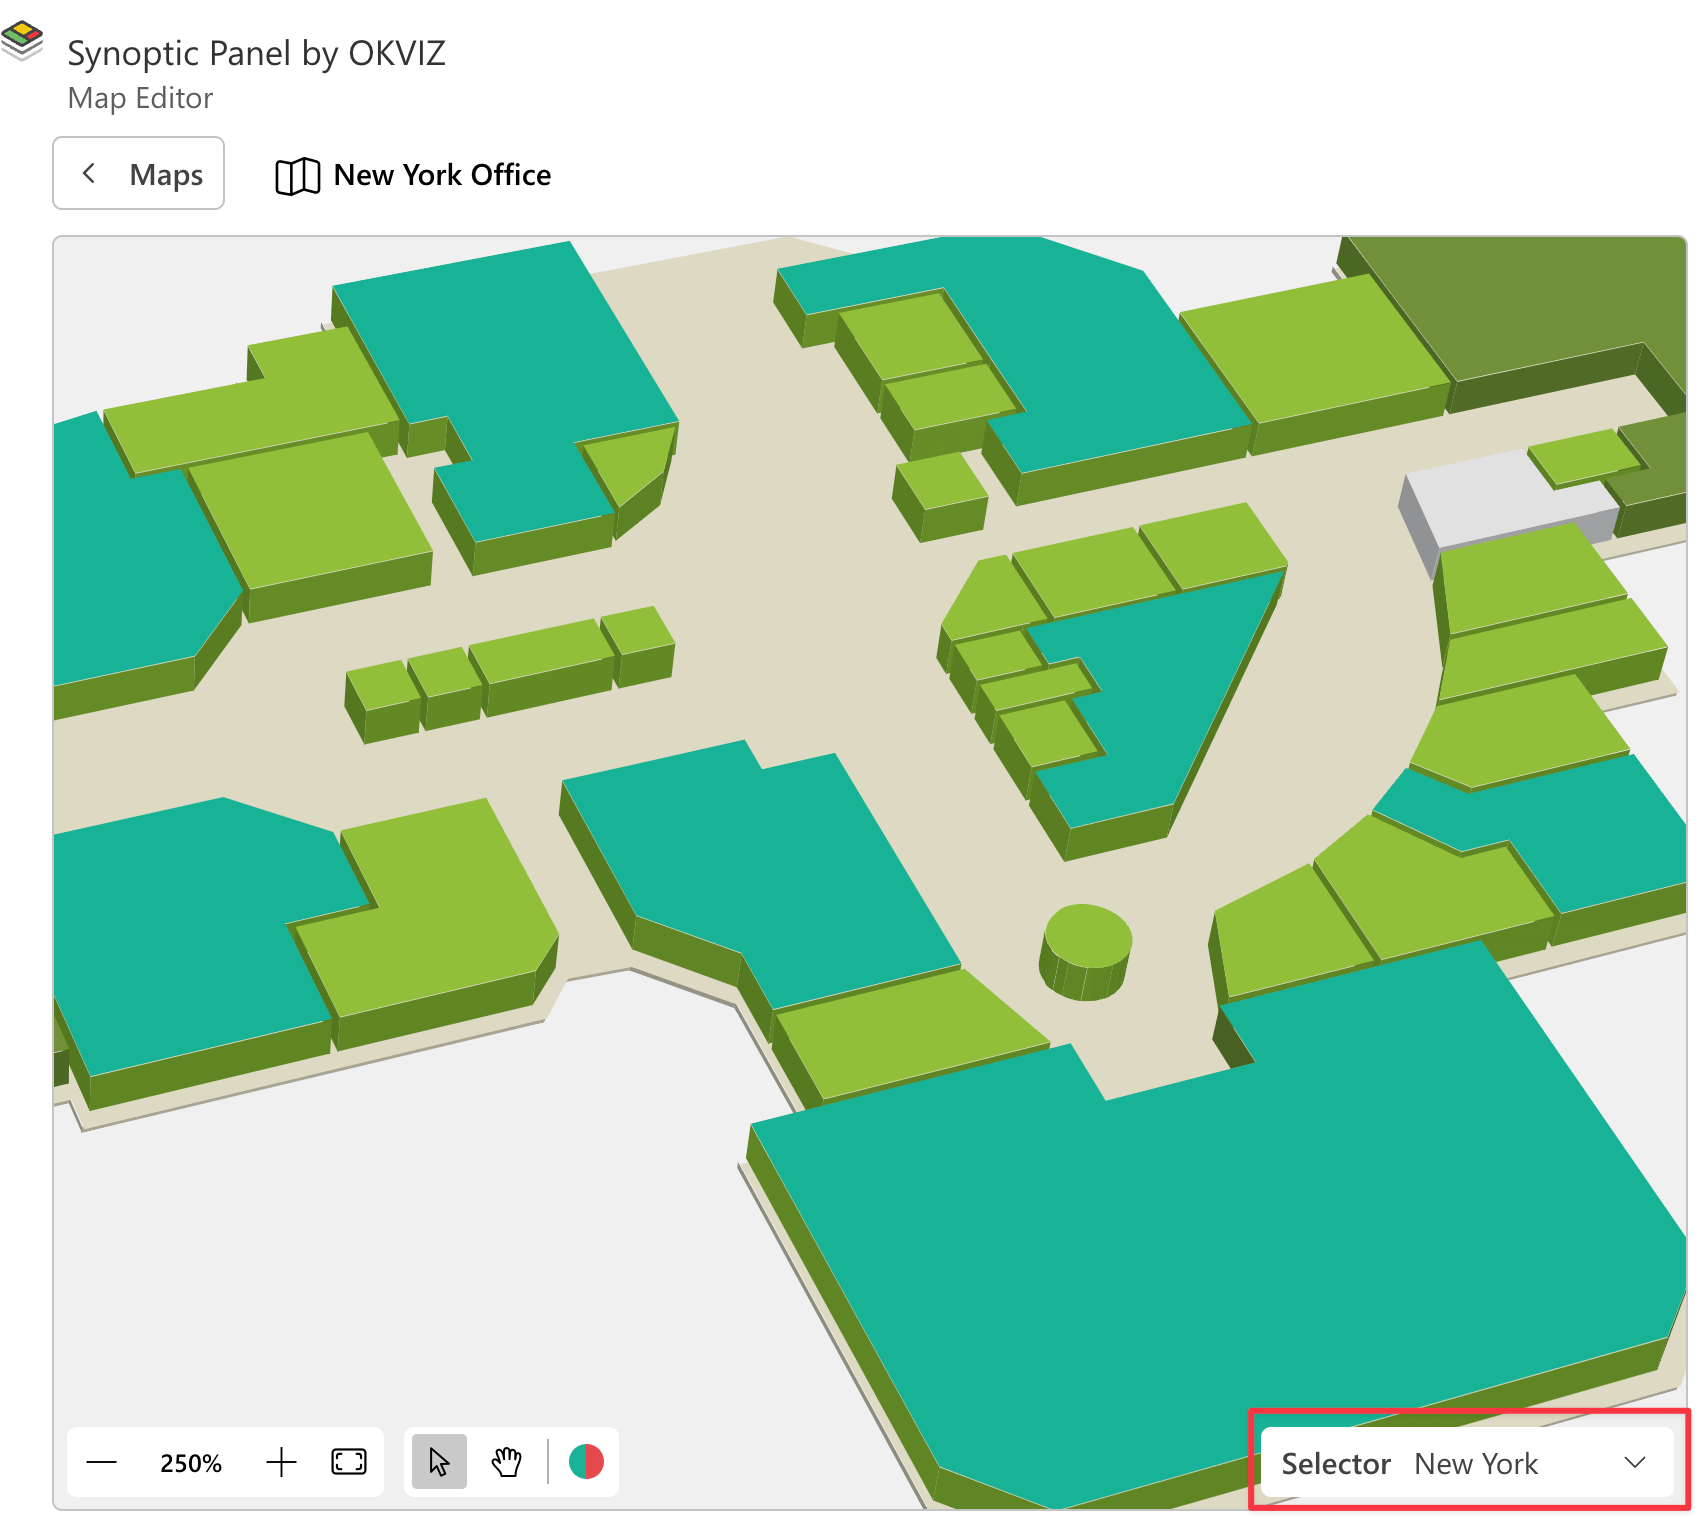
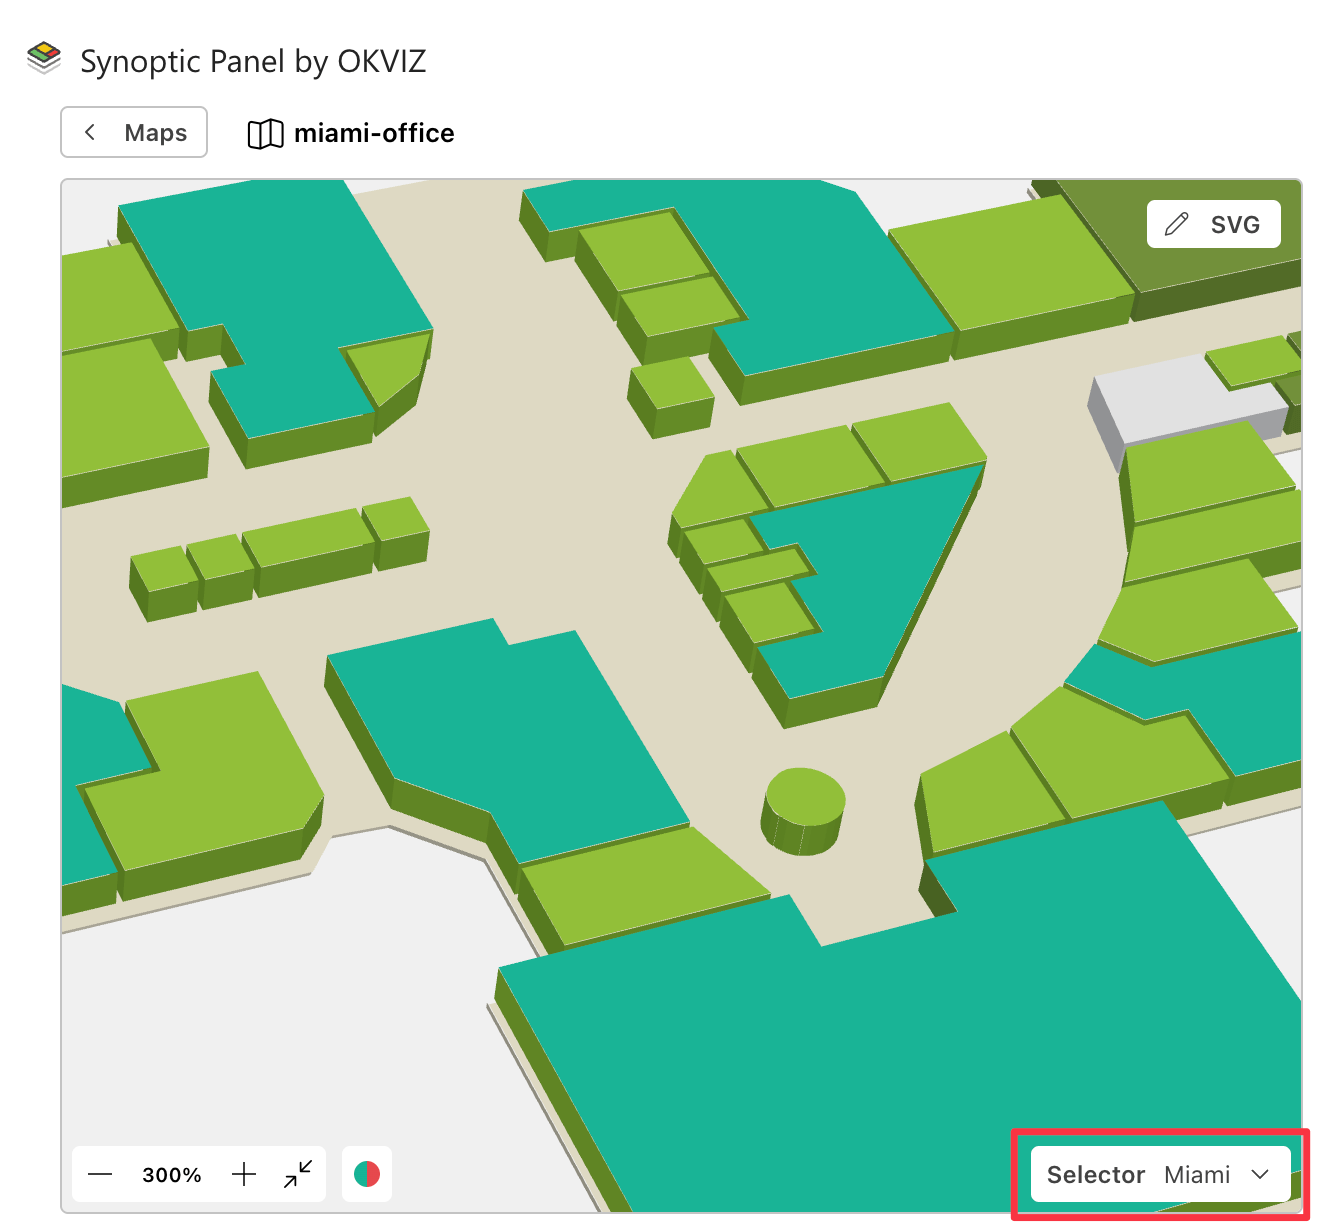
Improve Map Selector Docs

diff --git a/_mydocs/visuals/synoptic-panel/features/filtering-maps/map-selector.md b/_mydocs/visuals/synoptic-panel/features/filtering-maps/map-selector.md
@@ -34,17 +34,17 @@ Assuming you have a table with the following columns and values:
         <th>...</th>
     </tr>
     <tr>
+        <td>Miami</td>
+        <td>...</td>
+        <td>...</td>
+    </tr>
+    <tr>
         <td>New York</td>
         <td>...</td>
         <td>...</td>
     </tr>
     <tr>
         <td>Seattle</td>
-        <td>...</td>
-        <td>...</td>
-    </tr>
-    <tr>
-        <td>Chicago</td>
         <td>...</td>
         <td>...</td>
     </tr>
@@ -101,12 +101,17 @@ To assign a reference to a map, follow these steps:
 
 3. Load a map into Synoptic Panel, if you haven't already.
 
-4. Open the **Map Editor** by clicking the pencil button in the visual toolbar, or by clicking the ***Edit*** button, if you just imported the map.
+4. Open the **Map Editor** by clicking the pencil button in the visual toolbar.
+    <img src="images/map-editor-btn.png">
 
-5. In the Map Editor, choose the reference value that will be associated with the map from the dropdown list in the **Map Selector** section.
+5. Select a map and click the ***Edit*** button.
+    <img src="images/edit-map.png">
+
+6. In the Map Editor, choose the reference value that will be associated with the map from the dropdown list in the **Map Selector** section.
     <img src="images/map-selector-editor.png">
 
-6. Click ***Save*** to apply the changes.
+7. Click ***Save*** to apply the changes.
+    <img src="images/map-editor-save.png">
 
 Repeat these steps for each map you want to associate with a reference.
 
